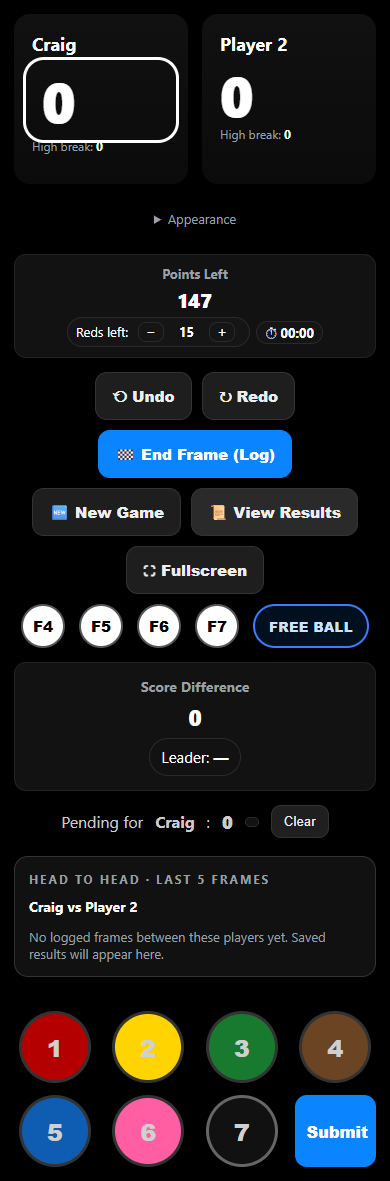
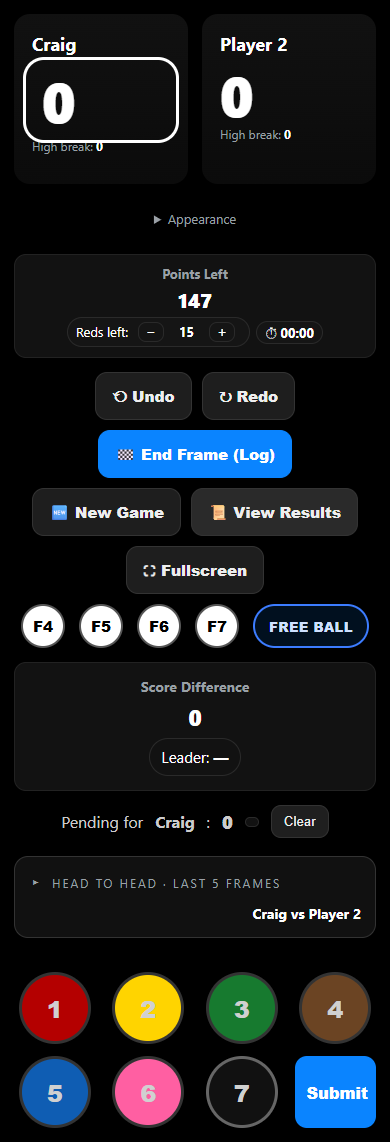
Compact Broadcast player panels and collapse head-to-head results

diff --git a/index.html b/index.html
@@ -235,8 +235,13 @@ html[data-theme]:not([data-theme="classic"]) .ball.black {background-color:#1015
 html[data-theme="club"] .bottom {margin: auto 14px 14px;padding:22px 14px;border:1px solid #6a9d7a55;border-radius:22px;background:radial-gradient(ellipse at 50% 10%,#33764e77,transparent 80%),#143923;box-shadow:inset 0 2px 20px #0005,0 15px 45px #0006;}
 html[data-theme="broadcast"] .bottom {background:linear-gradient(145deg,#182c45aa,#0a1425cc);border:1px solid #55789b44;border-radius:14px;margin: auto 14px 14px;padding:22px 14px;}
 .headToHead {margin:12px 14px 20px;padding:16px 20px;border:1px solid #333;border-radius:14px;background:var(--panel);color:var(--fg);}
-.h2hHeader {display:flex;justify-content:space-between;gap:10px;align-items:center;flex-wrap:wrap;}
-.h2hHeader h3 {margin:0;font-size:12px;letter-spacing:.16em;text-transform:uppercase;color:var(--muted);}
+.h2hHeader {display:flex;gap:10px;align-items:center;flex-wrap:wrap;cursor:pointer;min-height:44px;list-style:none;}
+.h2hHeader::-webkit-details-marker {display:none;}
+.h2hHeader::before {content:'▸';color:var(--muted);}
+.headToHead[open] > .h2hHeader::before {content:'▾';}
+.h2hHeader:focus-visible {outline:2px solid var(--fg);outline-offset:4px;border-radius:4px;}
+.h2hTitle {margin:0;font-size:12px;letter-spacing:.16em;text-transform:uppercase;color:var(--muted);}
+.h2hSummary {margin-left:auto;}
 .h2hSummary {font-size:14px;font-weight:700;}
 .h2hGames {display:grid;grid-template-columns:repeat(5,minmax(0,1fr));gap:10px;margin-top:12px;}
 .h2hGame {background:#ffffff06;border:1px solid #ffffff12;border-radius:8px;padding:10px;text-align:center;}
@@ -247,6 +252,16 @@ html[data-theme="broadcast"] .bottom {background:linear-gradient(145deg,#182c45a
 html[data-theme="club"] .headToHead {background:linear-gradient(120deg,#20372ccc,#10251dcc);border-color:#659a7955;box-shadow:0 8px 24px #0005;}
 html[data-theme="broadcast"] .headToHead {background:#102039b3;border-color:#49678966;}
 html[data-theme="oled"] .headToHead {background:#000;}
+html[data-theme="broadcast"] .players {gap:12px;padding:12px 14px;}
+html[data-theme="broadcast"] .player {display:grid;grid-template-columns:auto minmax(0,1fr);grid-template-rows:auto auto;column-gap:24px;align-items:center;min-height:0;padding:14px 20px;}
+html[data-theme="broadcast"] .player .score {grid-column:1;grid-row:1/3;font-size:clamp(48px,7vw,76px);margin:0;padding:4px 10px;border-radius:4px;}
+html[data-theme="broadcast"] .player.selected .score {outline:2px solid var(--outline);outline-offset:2px;padding:4px 10px;}
+html[data-theme="broadcast"] .player .name {grid-column:2;grid-row:1;font-size:clamp(18px,2.5vw,26px);align-self:end;overflow-wrap:anywhere;min-width:0;}
+html[data-theme="broadcast"] .player .meta {grid-column:2;grid-row:2;align-self:start;padding-top:6px;font-size:13px;}
+html[data-theme="broadcast"] .ballRow {grid-template-columns:repeat(8,minmax(0,1fr));}
+html[data-theme="broadcast"] .ball {width:min(var(--btnSize),100%);height:auto;aspect-ratio:1;}
+html[data-theme="broadcast"] .submit {min-width:0;}
+@media(max-width:600px){html[data-theme="broadcast"] .ballRow{grid-template-columns:repeat(4,minmax(0,1fr));}html[data-theme="broadcast"] .player{column-gap:12px;padding:12px;}html[data-theme="broadcast"] .player .score{font-size:44px;padding:4px;}html[data-theme="broadcast"] .player.selected .score{padding:4px;}html[data-theme="broadcast"] .player .meta{font-size:11px;}}
 @media(max-width:1100px){html[data-theme]:not([data-theme="classic"]) .bottom{padding:16px 8px;}}
 @media(max-width:600px){.h2hGames{grid-template-columns:repeat(2,minmax(0,1fr));}.h2hGame:last-child{grid-column:1/-1;}html[data-theme]:not([data-theme="classic"]) .bottom{margin:0 14px 14px;}.headToHead{padding:14px;}}
 
@@ -334,7 +349,7 @@ html[data-theme="oled"] .headToHead {background:#000;}
     <button id="clearPending">Clear</button>
   </div>
 
-  <section class="headToHead" id="headToHead" aria-label="Recent head-to-head results"></section>
+  <details class="headToHead" id="headToHead" aria-label="Recent head-to-head results"></details>
 
   <div class="bottom">
     <div class="ballRow">
@@ -1009,8 +1024,8 @@ document.addEventListener('visibilitychange', ()=>{ if(document.visibilityState=
     const games = names[0] !== names[1] ? logs.filter(r => r && r.p1 && r.p2 &&
       ((r.p1.name === names[0] && r.p2.name === names[1]) || (r.p1.name === names[1] && r.p2.name === names[0])))
       .sort((a, b) => (Date.parse(b.endedAt || b.id) || 0) - (Date.parse(a.endedAt || a.id) || 0)).slice(0, 5) : [];
-    const heading = document.createElement('div'); heading.className = 'h2hHeader';
-    const title = document.createElement('h3'); title.textContent = 'Head to head · Last 5 frames'; heading.append(title);
+    const heading = document.createElement('summary'); heading.className = 'h2hHeader';
+    const title = document.createElement('span'); title.className = 'h2hTitle'; title.textContent = 'Head to head · Last 5 frames'; heading.append(title);
     const wins = [0, 0]; let ties = 0;
     const cards = document.createElement('div'); cards.className = 'h2hGames';
     games.forEach(r => {
@@ -1025,7 +1040,7 @@ document.addEventListener('visibilitychange', ()=>{ if(document.visibilityState=
       date.textContent = Number.isNaN(when.getTime()) ? 'Logged frame' : when.toLocaleDateString([], {day:'numeric',month:'short'});
       card.append(score, won, date); cards.append(card);
     });
-    const summary = document.createElement('div'); summary.className = 'h2hSummary';
+    const summary = document.createElement('span'); summary.className = 'h2hSummary';
     summary.textContent = games.length ? names[0] + ' ' + wins[0] + ' – ' + wins[1] + ' ' + names[1] + (ties ? ' · ' + ties + ' drawn' : '') : names.join(' vs ');
     heading.append(summary); panel.replaceChildren(heading);
     if (games.length) panel.append(cards);

diff --git a/results.html b/results.html
@@ -141,8 +141,13 @@ html[data-theme]:not([data-theme="classic"]) .ball.black {background-color:#1015
 html[data-theme="club"] .bottom {margin: auto 14px 14px;padding:22px 14px;border:1px solid #6a9d7a55;border-radius:22px;background:radial-gradient(ellipse at 50% 10%,#33764e77,transparent 80%),#143923;box-shadow:inset 0 2px 20px #0005,0 15px 45px #0006;}
 html[data-theme="broadcast"] .bottom {background:linear-gradient(145deg,#182c45aa,#0a1425cc);border:1px solid #55789b44;border-radius:14px;margin: auto 14px 14px;padding:22px 14px;}
 .headToHead {margin:12px 14px 20px;padding:16px 20px;border:1px solid #333;border-radius:14px;background:var(--panel);color:var(--fg);}
-.h2hHeader {display:flex;justify-content:space-between;gap:10px;align-items:center;flex-wrap:wrap;}
-.h2hHeader h3 {margin:0;font-size:12px;letter-spacing:.16em;text-transform:uppercase;color:var(--muted);}
+.h2hHeader {display:flex;gap:10px;align-items:center;flex-wrap:wrap;cursor:pointer;min-height:44px;list-style:none;}
+.h2hHeader::-webkit-details-marker {display:none;}
+.h2hHeader::before {content:'▸';color:var(--muted);}
+.headToHead[open] > .h2hHeader::before {content:'▾';}
+.h2hHeader:focus-visible {outline:2px solid var(--fg);outline-offset:4px;border-radius:4px;}
+.h2hTitle {margin:0;font-size:12px;letter-spacing:.16em;text-transform:uppercase;color:var(--muted);}
+.h2hSummary {margin-left:auto;}
 .h2hSummary {font-size:14px;font-weight:700;}
 .h2hGames {display:grid;grid-template-columns:repeat(5,minmax(0,1fr));gap:10px;margin-top:12px;}
 .h2hGame {background:#ffffff06;border:1px solid #ffffff12;border-radius:8px;padding:10px;text-align:center;}
@@ -153,6 +158,16 @@ html[data-theme="broadcast"] .bottom {background:linear-gradient(145deg,#182c45a
 html[data-theme="club"] .headToHead {background:linear-gradient(120deg,#20372ccc,#10251dcc);border-color:#659a7955;box-shadow:0 8px 24px #0005;}
 html[data-theme="broadcast"] .headToHead {background:#102039b3;border-color:#49678966;}
 html[data-theme="oled"] .headToHead {background:#000;}
+html[data-theme="broadcast"] .players {gap:12px;padding:12px 14px;}
+html[data-theme="broadcast"] .player {display:grid;grid-template-columns:auto minmax(0,1fr);grid-template-rows:auto auto;column-gap:24px;align-items:center;min-height:0;padding:14px 20px;}
+html[data-theme="broadcast"] .player .score {grid-column:1;grid-row:1/3;font-size:clamp(48px,7vw,76px);margin:0;padding:4px 10px;border-radius:4px;}
+html[data-theme="broadcast"] .player.selected .score {outline:2px solid var(--outline);outline-offset:2px;padding:4px 10px;}
+html[data-theme="broadcast"] .player .name {grid-column:2;grid-row:1;font-size:clamp(18px,2.5vw,26px);align-self:end;overflow-wrap:anywhere;min-width:0;}
+html[data-theme="broadcast"] .player .meta {grid-column:2;grid-row:2;align-self:start;padding-top:6px;font-size:13px;}
+html[data-theme="broadcast"] .ballRow {grid-template-columns:repeat(8,minmax(0,1fr));}
+html[data-theme="broadcast"] .ball {width:min(var(--btnSize),100%);height:auto;aspect-ratio:1;}
+html[data-theme="broadcast"] .submit {min-width:0;}
+@media(max-width:600px){html[data-theme="broadcast"] .ballRow{grid-template-columns:repeat(4,minmax(0,1fr));}html[data-theme="broadcast"] .player{column-gap:12px;padding:12px;}html[data-theme="broadcast"] .player .score{font-size:44px;padding:4px;}html[data-theme="broadcast"] .player.selected .score{padding:4px;}html[data-theme="broadcast"] .player .meta{font-size:11px;}}
 @media(max-width:1100px){html[data-theme]:not([data-theme="classic"]) .bottom{padding:16px 8px;}}
 @media(max-width:600px){.h2hGames{grid-template-columns:repeat(2,minmax(0,1fr));}.h2hGame:last-child{grid-column:1/-1;}html[data-theme]:not([data-theme="classic"]) .bottom{margin:0 14px 14px;}.headToHead{padding:14px;}}
 

diff --git a/review/dramatic.css b/review/dramatic.css
@@ -17,8 +17,13 @@ html[data-theme]:not([data-theme="classic"]) .ball.black {background-color:#1015
 html[data-theme="club"] .bottom {margin: auto 14px 14px;padding:22px 14px;border:1px solid #6a9d7a55;border-radius:22px;background:radial-gradient(ellipse at 50% 10%,#33764e77,transparent 80%),#143923;box-shadow:inset 0 2px 20px #0005,0 15px 45px #0006;}
 html[data-theme="broadcast"] .bottom {background:linear-gradient(145deg,#182c45aa,#0a1425cc);border:1px solid #55789b44;border-radius:14px;margin: auto 14px 14px;padding:22px 14px;}
 .headToHead {margin:12px 14px 20px;padding:16px 20px;border:1px solid #333;border-radius:14px;background:var(--panel);color:var(--fg);}
-.h2hHeader {display:flex;justify-content:space-between;gap:10px;align-items:center;flex-wrap:wrap;}
-.h2hHeader h3 {margin:0;font-size:12px;letter-spacing:.16em;text-transform:uppercase;color:var(--muted);}
+.h2hHeader {display:flex;gap:10px;align-items:center;flex-wrap:wrap;cursor:pointer;min-height:44px;list-style:none;}
+.h2hHeader::-webkit-details-marker {display:none;}
+.h2hHeader::before {content:'▸';color:var(--muted);}
+.headToHead[open] > .h2hHeader::before {content:'▾';}
+.h2hHeader:focus-visible {outline:2px solid var(--fg);outline-offset:4px;border-radius:4px;}
+.h2hTitle {margin:0;font-size:12px;letter-spacing:.16em;text-transform:uppercase;color:var(--muted);}
+.h2hSummary {margin-left:auto;}
 .h2hSummary {font-size:14px;font-weight:700;}
 .h2hGames {display:grid;grid-template-columns:repeat(5,minmax(0,1fr));gap:10px;margin-top:12px;}
 .h2hGame {background:#ffffff06;border:1px solid #ffffff12;border-radius:8px;padding:10px;text-align:center;}
@@ -29,5 +34,15 @@ html[data-theme="broadcast"] .bottom {background:linear-gradient(145deg,#182c45a
 html[data-theme="club"] .headToHead {background:linear-gradient(120deg,#20372ccc,#10251dcc);border-color:#659a7955;box-shadow:0 8px 24px #0005;}
 html[data-theme="broadcast"] .headToHead {background:#102039b3;border-color:#49678966;}
 html[data-theme="oled"] .headToHead {background:#000;}
+html[data-theme="broadcast"] .players {gap:12px;padding:12px 14px;}
+html[data-theme="broadcast"] .player {display:grid;grid-template-columns:auto minmax(0,1fr);grid-template-rows:auto auto;column-gap:24px;align-items:center;min-height:0;padding:14px 20px;}
+html[data-theme="broadcast"] .player .score {grid-column:1;grid-row:1/3;font-size:clamp(48px,7vw,76px);margin:0;padding:4px 10px;border-radius:4px;}
+html[data-theme="broadcast"] .player.selected .score {outline:2px solid var(--outline);outline-offset:2px;padding:4px 10px;}
+html[data-theme="broadcast"] .player .name {grid-column:2;grid-row:1;font-size:clamp(18px,2.5vw,26px);align-self:end;overflow-wrap:anywhere;min-width:0;}
+html[data-theme="broadcast"] .player .meta {grid-column:2;grid-row:2;align-self:start;padding-top:6px;font-size:13px;}
+html[data-theme="broadcast"] .ballRow {grid-template-columns:repeat(8,minmax(0,1fr));}
+html[data-theme="broadcast"] .ball {width:min(var(--btnSize),100%);height:auto;aspect-ratio:1;}
+html[data-theme="broadcast"] .submit {min-width:0;}
+@media(max-width:600px){html[data-theme="broadcast"] .ballRow{grid-template-columns:repeat(4,minmax(0,1fr));}html[data-theme="broadcast"] .player{column-gap:12px;padding:12px;}html[data-theme="broadcast"] .player .score{font-size:44px;padding:4px;}html[data-theme="broadcast"] .player.selected .score{padding:4px;}html[data-theme="broadcast"] .player .meta{font-size:11px;}}
 @media(max-width:1100px){html[data-theme]:not([data-theme="classic"]) .bottom{padding:16px 8px;}}
 @media(max-width:600px){.h2hGames{grid-template-columns:repeat(2,minmax(0,1fr));}.h2hGame:last-child{grid-column:1/-1;}html[data-theme]:not([data-theme="classic"]) .bottom{margin:0 14px 14px;}.headToHead{padding:14px;}}

diff --git a/review/head-to-head.js b/review/head-to-head.js
@@ -9,8 +9,8 @@
     const games = names[0] !== names[1] ? logs.filter(r => r && r.p1 && r.p2 &&
       ((r.p1.name === names[0] && r.p2.name === names[1]) || (r.p1.name === names[1] && r.p2.name === names[0])))
       .sort((a, b) => (Date.parse(b.endedAt || b.id) || 0) - (Date.parse(a.endedAt || a.id) || 0)).slice(0, 5) : [];
-    const heading = document.createElement('div'); heading.className = 'h2hHeader';
-    const title = document.createElement('h3'); title.textContent = 'Head to head · Last 5 frames'; heading.append(title);
+    const heading = document.createElement('summary'); heading.className = 'h2hHeader';
+    const title = document.createElement('span'); title.className = 'h2hTitle'; title.textContent = 'Head to head · Last 5 frames'; heading.append(title);
     const wins = [0, 0]; let ties = 0;
     const cards = document.createElement('div'); cards.className = 'h2hGames';
     games.forEach(r => {
@@ -25,7 +25,7 @@
       date.textContent = Number.isNaN(when.getTime()) ? 'Logged frame' : when.toLocaleDateString([], {day:'numeric',month:'short'});
       card.append(score, won, date); cards.append(card);
     });
-    const summary = document.createElement('div'); summary.className = 'h2hSummary';
+    const summary = document.createElement('span'); summary.className = 'h2hSummary';
     summary.textContent = games.length ? names[0] + ' ' + wins[0] + ' – ' + wins[1] + ' ' + names[1] + (ties ? ' · ' + ties + ' drawn' : '') : names.join(' vs ');
     heading.append(summary); panel.replaceChildren(heading);
     if (games.length) panel.append(cards);

diff --git a/review/README.md b/review/README.md
@@ -2,6 +2,12 @@
 
 Branch: `codex/visual-themes`. No merge or deployment performed.
 
+## Follow-up: compact Broadcast and collapsible head-to-head
+
+Prepared on `codex/compact-broadcast` after the original themes were published. Broadcast now uses a CSS grid placing score left, editable name right and high break beneath the name. Other skins retain their player layouts. Head-to-head uses a native details/summary accordion, collapsed initially, with aggregate wins visible in the summary. Its open state survives read-only content refreshes in the current page and resets on reload; no new storage is used.
+
+The tablet test verifies name placement and ball/Submit visibility at 1024 × 768, with screenshots of collapsed and expanded stats. Enter/Space toggle the accordion. Broadcast ball sizes can shrink within their grid cells to prevent tablet overflow. Existing scoring and results scripts remain identical to deployed main; the control comparison suite still passes. Preview images use synthetic results. This follow-up has not been merged or deployed.
+
 ## Revised visual direction and head-to-head panel
 
 Non-Classic skins now use CSS resin-ball highlights, spherical shading and cast shadows. Club adds illuminated, textured baize and a recessed ball tray; Broadcast uses blue lighting and a diagonal background. OLED retains black. No image downloads, frameworks or new runtime asset requests are needed.
